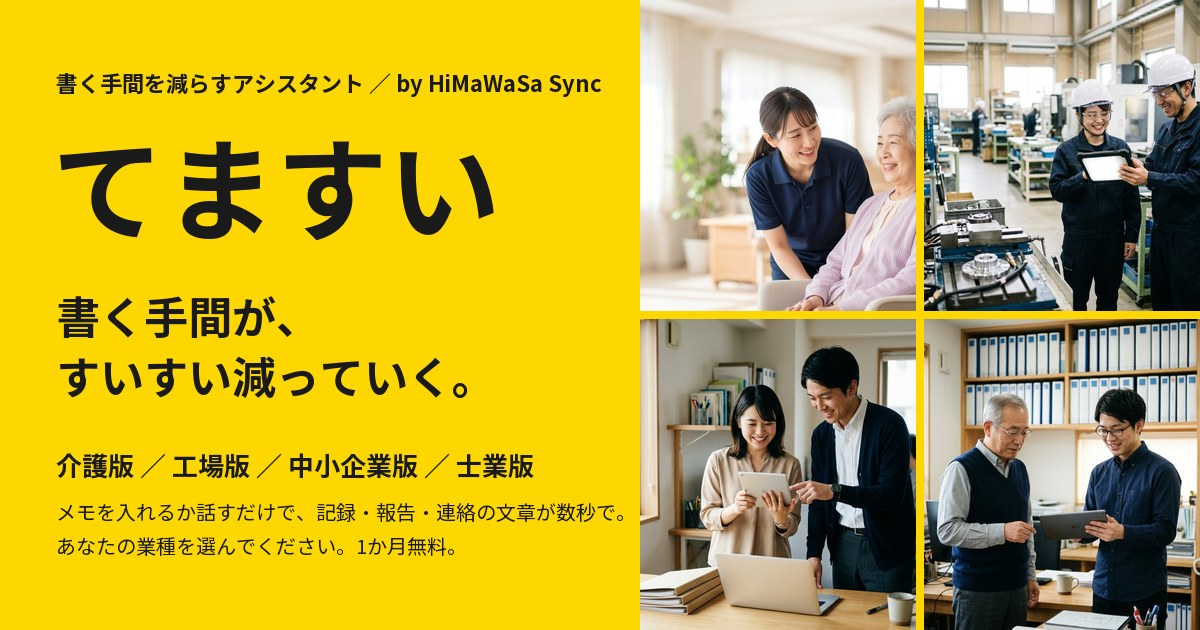
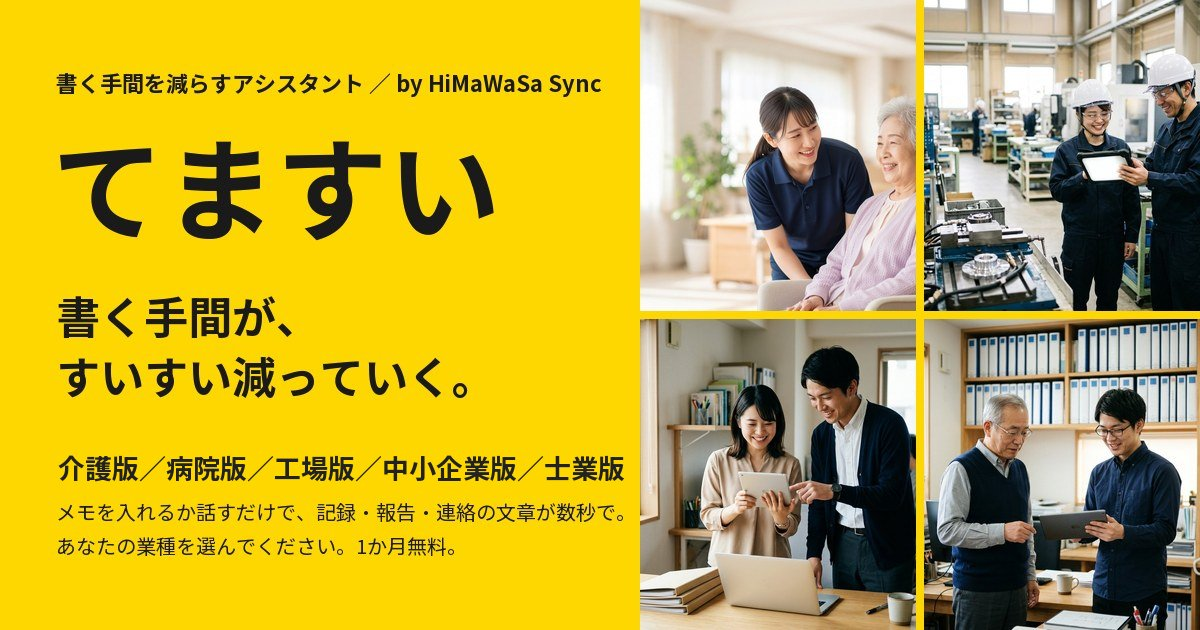
SEO 1-1：会社の説明をてますい中心に・トップの画面に無いFAQPageを外しSoftwareApplicationへ・共有画像に病院版・月1万円（定額）

diff --git a/src/seo/site.js b/src/seo/site.js
@@ -15,11 +15,12 @@ export const SITE = {
   url: SITE_URL,
   locale: 'ja_JP',
   lang: 'ja',
-  title: '介護・病院・士業・工場の業務自動化｜今のExcelのまま | HiMaWaSa Sync',
+  // 2026-10-04 会社全体の説明を「てますい」中心に（構造化データの Organization・WebSite・Service の説明にも使われる）
+  title: 'てますい（書く手間を減らすアシスタント）と業務の自動化 | HiMaWaSa Sync',
   description:
-    '介護施設のシフト表、病院の日計、士業の請求を、今のExcelのまま自動化します。HiMaWaSa Sync。初回相談は無料（30分）。',
+    'HiMaWaSa Sync は、話すか短いメモを入れるだけで記録や書類の下書きができるアシスタント「てますい」（介護・病院・工場・中小企業・士業）を提供しています。今のExcelのままの業務の自動化のご相談も承ります。',
   ogDescription:
-    '今のExcelのまま、介護・医療・士業の現場DX。使い方がわからなくても相談できます。',
+    '話すだけ・短いメモだけで、記録と書類の下書きに。てますい（介護・病院・工場・中小企業・士業）。',
   ogImage: `${SITE_URL}/ogp.png`,
   ogImageAlt: 'HiMaWaSa Sync — 今のExcelのまま、現場の手作業を自動化',
   logo: `${SITE_URL}/logo.png`,
@@ -61,8 +62,10 @@ export const PAGES = {
     // 2026-10-04 トップを「てますい」1本の話に作り直した。名前で検索した人に、何ができて、いくらかがすぐ分かるように
     title: 'てますい｜書く手間を減らすアシスタント（介護・病院・工場・中小企業・士業） | HiMaWaSa Sync',
     h1: 'てますい 書く手間が、すいすい減っていく。',
-    description: 'スマホに向かって話すか、短いメモを入れるだけで、日報や介護記録のきれいな下書きがすぐに出来上がる「てますい」。介護・病院・工場・中小企業・士業の5つの版。月1万円から・1か月無料。今のExcelのままの自動化のご相談も承ります。',
-    og: '話すだけ・書くだけで、記録と書類の下書きに。てますい（介護・病院・工場・中小企業・士業）。月1万円から・1か月無料。',
+    description: 'スマホに向かって話すか、短いメモを入れるだけで、日報や介護記録のきれいな下書きがすぐに出来上がる「てますい」。介護・病院・工場・中小企業・士業の5つの版。月1万円（定額）・1か月無料。今のExcelのままの自動化のご相談も承ります。',
+    og: '話すだけ・書くだけで、記録と書類の下書きに。てますい（介護・病院・工場・中小企業・士業）。月1万円（定額）・1か月無料。',
+    ogImage: '/temasui/start/img/ogp.jpg',
+    ogImageAlt: 'てますい 書く手間が、すいすい減っていく。介護版・病院版・工場版・中小企業版・士業版',
     crumb: 'トップ',
   },
   services: {
@@ -738,7 +741,7 @@ export function buildJsonLd() {
         image: SITE.ogImage,
         areaServed: { '@type': 'Country', name: 'Japan' },
         serviceType: [
-          'てますい（業種別の書類下書きアシスタント：介護・工場）',
+          'てますい（書く手間を減らすアシスタント：介護・病院・工場・中小企業・士業）',
           '介護施設のシフト表自動化',
           '病院の日計・カルテ転記',
           '士業の期日・請求自動化',
@@ -767,14 +770,28 @@ export function buildJsonLd() {
           audienceType: 'AIの使い方がわからない企業、既存システムの保守に困っている現場',
         },
       },
+      // 2026-10-04 トップの画面に無い質問集（FAQPage）を外した（画面に無い FAQ は Google の決まりに反する。質問集は /contact/ に画面と一緒にある）。
+      // 代わりに、トップの主役「てますい」を商品として説明する。料金は src/pages/Home/sections/TemasuiSections.jsx の料金表と同じにする
       {
-        '@type': 'FAQPage',
-        '@id': `${SITE.url}/#faq`,
-        mainEntity: FAQS.map(({ q, a }) => ({
-          '@type': 'Question',
-          name: q,
-          acceptedAnswer: { '@type': 'Answer', text: a },
-        })),
+        '@type': 'SoftwareApplication',
+        '@id': `${SITE.url}/#temasui`,
+        name: 'てますい',
+        alternateName: ['temasui', 'テマスイ'],
+        applicationCategory: 'BusinessApplication',
+        operatingSystem: 'Web（スマホ・タブレット・パソコンのブラウザ。ダウンロード不要）',
+        url: `${SITE.url}/`,
+        image: `${SITE.url}/temasui/start/img/ogp.jpg`,
+        description: 'スマホに向かって話すか、短いメモを入れるだけで、日報や介護記録などの下書きができる、書く手間を減らすアシスタント。介護・病院・工場・中小企業・士業の5つの版。外国語で話しても日本語の記録に。',
+        audience: { '@type': 'Audience', audienceType: '介護施設、病院、工場、中小企業、士業事務所' },
+        provider: { '@id': orgId },
+        offers: {
+          '@type': 'Offer',
+          price: '10000',
+          priceCurrency: 'JPY',
+          priceSpecification: { '@type': 'UnitPriceSpecification', price: '10000', priceCurrency: 'JPY', unitText: '月', valueAddedTaxIncluded: false },
+          description: '月額10,000円（税別。会社・施設・病院全体で定額）。ご契約時の初期サポート30,000円（税別）。1か月無料・最低3か月。5つの版とも同じ料金。',
+          url: `${SITE.url}/#pricing`,
+        },
       },
     ],
   }

diff --git a/src/pages/Home/sections/heroText.js b/src/pages/Home/sections/heroText.js
@@ -9,7 +9,7 @@ export const TEMASUI_HERO = {
   name: 'てますい',
   tagline: '書く手間が、すいすい減っていく。',
   lead: 'スマホに向かって話すか、短いメモを入れるだけで、日報や介護記録の下書きがすぐに出来上がります。',
-  chips: ['ダウンロード不要', '🎤 話すだけ（外国語も日本語に）', '月1万円から', '1か月無料'],
+  chips: ['ダウンロード不要', '🎤 話すだけ（外国語も日本語に）', '月1万円（定額）', '1か月無料'],
   ctaPrimary: { href: '/temasui/start/', label: '1か月無料で試す' },
   ctaSecondary: { href: '#versions', label: '登録なしで試す' },
   note: '無料期間が終わっても、自動で料金がかかることはありません。運営：HiMaWaSa Sync',
